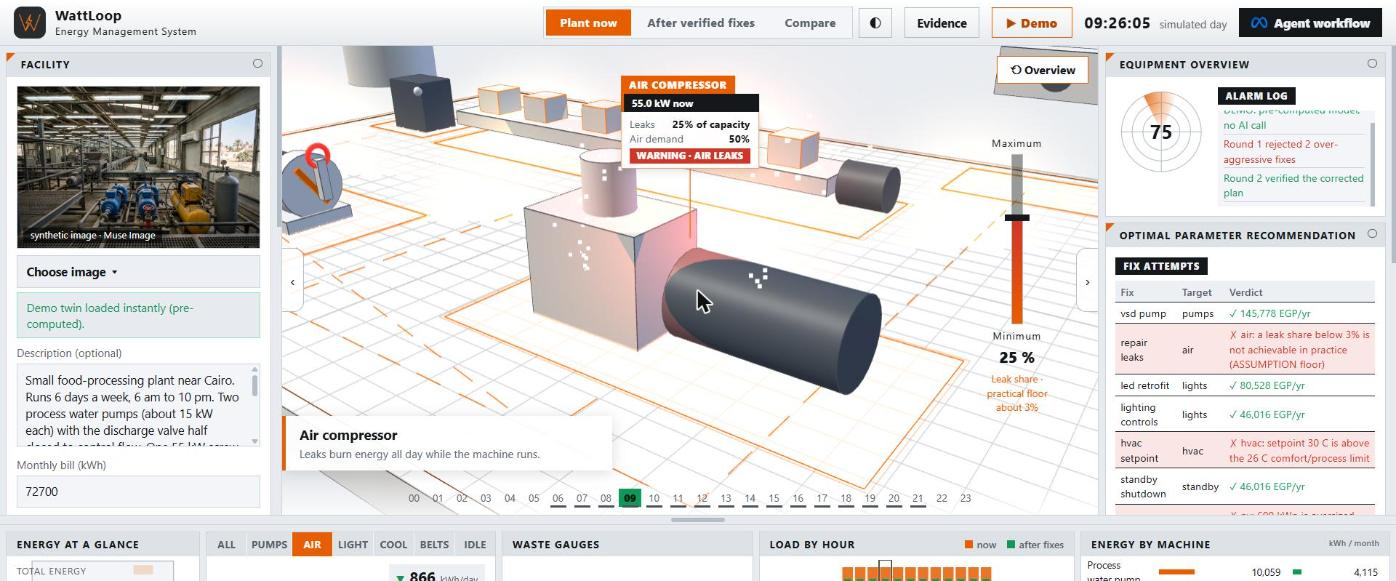
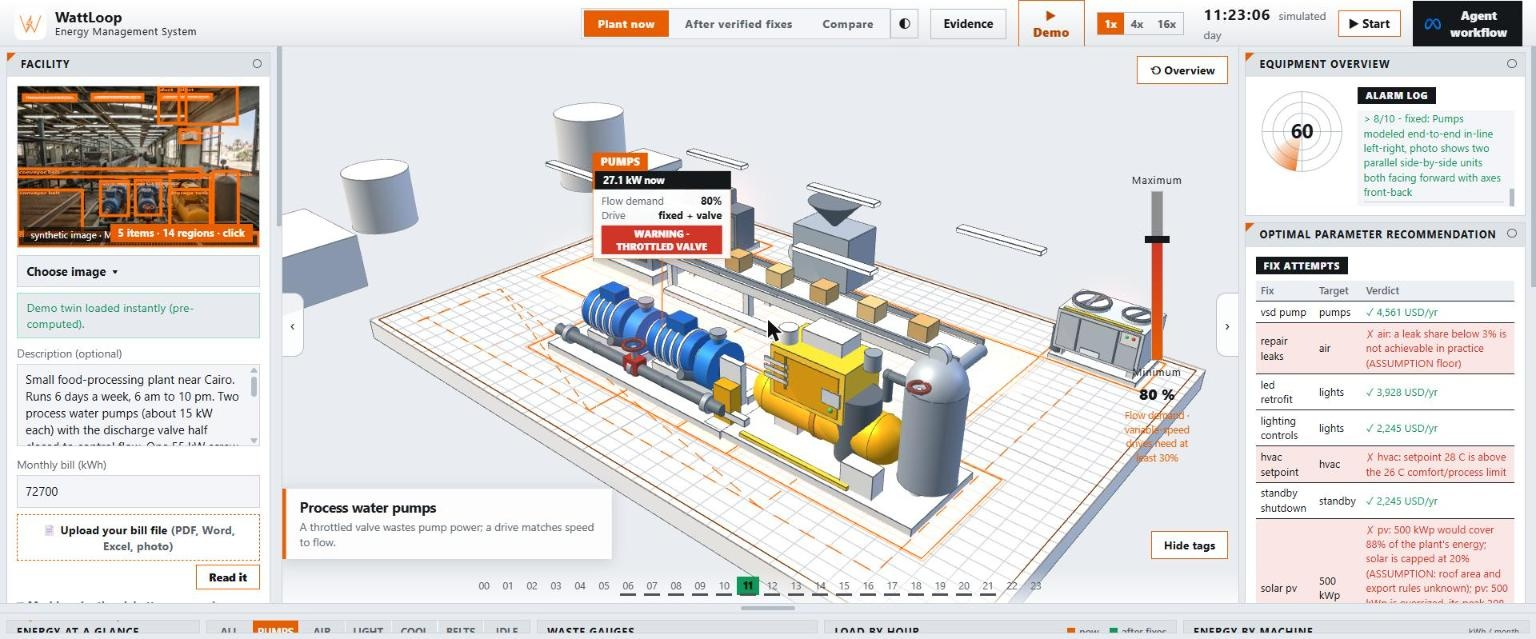
README: new real-run screenshots (workflow, focus, PDF pages) with the Muse Wonder 3D; PDF note names Muse Wonder

diff --git a/static/report.js b/static/report.js
@@ -61,7 +61,7 @@ const Report = (() => {
     doc.setFontSize(7.5); doc.setTextColor(...MUT); doc.text("Facility photo (as provided)", M, y + ih + 4); doc.text("3D twin today: orange outlines mark waste", M + iw + 6, y + ih + 4); y += ih + 9;
     if (snapAfter) { doc.addImage(snapAfter, "JPEG", M, y, iw, ih); doc.text("3D twin after the verified fixes: green outlines mark fixed machines", M, y + ih + 4); }
     doc.setFontSize(8); doc.setTextColor(40, 40, 40);
-    const note = doc.splitTextToSize("How to read this: the twin was written by Muse Spark from the photo and description, then calibrated to the monthly bill. A code simulator tested each fix and rejected impractical ones before this plan was produced.", iw);
+    const note = doc.splitTextToSize("How to read this: the twin was written by Muse Spark from the photo and description, the 3D machine shapes were designed by Muse Wonder (code checked every part), then the twin was calibrated to the monthly bill. A code simulator tested each fix and rejected impractical ones before this plan was produced.", iw);
     doc.text(note, M + iw + 6, y + 6);
 
     // ---------------- page 2: problems, cost, timing

diff --git a/README.md b/README.md
@@ -65,7 +65,7 @@ A synthetic test (200 random plants where the true saving is known, **not real p
 
 <p align="center"><img src="assets/screens/hero-3d.jpg" alt="The 3D twin of the demo food plant: blue pump skid, yellow compressor with its receiver tank, conveyor line with mixers and an oven" width="100%"><br><sub><b>The 3D twin, designed by Muse Wonder.</b> Every machine is built from 30 to 40 simple parts that Muse Wonder wrote as data; code checks them and Three.js draws them. Pump skid with valves, compressor with receiver tank, conveyor line with mixers and an oven. Rendered at 4000 x 2250.</sub></p>
 
-<p align="center"><img src="assets/screens/focus.jpg" alt="Fly-in on the compressor with leak gauge" width="100%"><br><sub><b>Click any machine.</b> The view flies in, shows the live power, the waste (a 25% air leak here) and where the parameter sits against its safe range. Dashboard widgets, an accelerated day cycle and hourly load update with it.</sub></p>
+<p align="center"><img src="assets/screens/focus.jpg" alt="Fly-in on the pump skid with its live power, waste warning and speed gauge" width="100%"><br><sub><b>Click any machine.</b> The view flies in and shows the live power, the waste (a throttled valve on the process pumps here) and where the parameter sits against its safe range. The photo on the left shows what Muse Spark named and SAM 3.1 outlined. A real run: the shapes were designed by Muse Wonder.</sub></p>
 
 - **Different image, different plant:** the layout, proportions and props come from the photo or description.
 - **Click the photo** to see exactly what Muse Spark named and what SAM 3.1 located.
@@ -117,7 +117,7 @@ flowchart TD
 | Report Writer | Muse Spark | Write the engineer's brief | A validator rejects any number not in the verified result |
 | Engineer gate | Human | Approve, modify or reject, with a recorded note | The workflow cannot finish without it |
 
-<p align="center"><img src="assets/screens/workflow.jpg" alt="The agent workflow after a finished run" width="100%"><br><sub><b>The agent workflow, live.</b> Every node lights up from a real run event: models in orange-outlined cards, code-only steps marked "no model". The left panel shows the 3D plant as it is built. When the plan is verified, a decision card asks the engineer to approve, modify or reject.</sub></p>
+<p align="center"><img src="assets/screens/workflow.jpg" alt="The agent workflow after a finished real run" width="100%"><br><sub><b>The agent workflow, live.</b> Every node lights up from a real run event: model, result and timing for each agent (the 3D Designer is Muse Wonder), the calibration error against the bill, rejected fixes, and the engineer checkpoint at the end. This is a real run of the Delta Foods demo plant.</sub></p>
 
 **Why it collaborates this way:** a model is good at reading a photo and proposing ideas, and bad at being the final judge of arithmetic. So models *propose*, code *disposes*. The agent workflow view animates this live, node by node, from real run events (nothing is canned).
 
